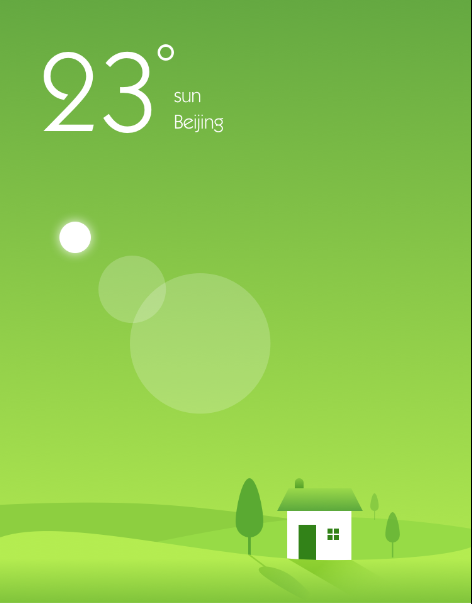
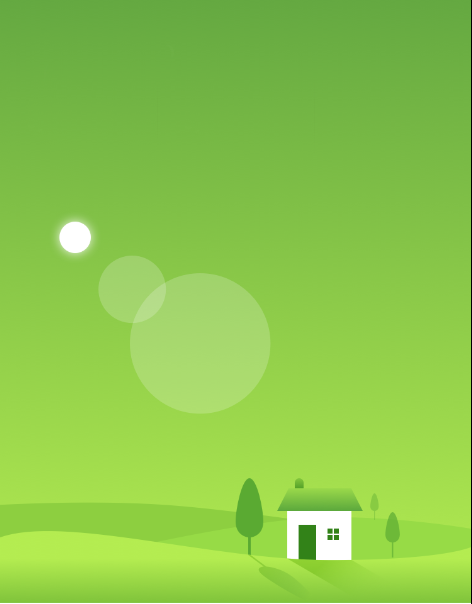
8.13实时

Changed region(s): [[0.089, 0.0596, 0.3856, 0.2384], [0.3559, 0.149, 0.4746, 0.2384], [0.2076, 0.1788, 0.2966, 0.2384]]

diff --git a/pro/untitled.py b/pro/untitled.py
@@ -380,6 +380,30 @@ class Ui_MainWindow(object):
         self.label_24.setPixmap(QtGui.QPixmap("../res/side.png"))
         self.label_24.setScaledContents(True)
         self.label_24.setObjectName("label_24")
+        self.temp = QtWidgets.QLabel(self.frame_12)
+        self.temp.setGeometry(QtCore.QRect(0, 10, 111, 171))
+        self.temp.setStyleSheet("background-color:transparent;\n"
+"font-size:80px;\n"
+"color:white;\n"
+"")
+        self.temp.setTextFormat(QtCore.Qt.PlainText)
+        self.temp.setScaledContents(True)
+        self.temp.setObjectName("temp")
+        self.wind = QtWidgets.QLabel(self.frame_12)
+        self.wind.setGeometry(QtCore.QRect(0, 130, 111, 21))
+        self.wind.setStyleSheet("background-color:transparent;\n"
+"font-size:20px;\n"
+"color:white;\n"
+"font-family:微软雅黑;")
+        self.wind.setObjectName("wind")
+        self.local = QtWidgets.QLabel(self.frame_12)
+        self.local.setGeometry(QtCore.QRect(0, 170, 111, 21))
+        self.local.setStyleSheet("background-color:transparent;\n"
+"font-size:20px;\n"
+"color:white;\n"
+"font-family:微软雅黑;\n"
+"border:none")
+        self.local.setObjectName("local")
         self.verticalLayout_2.addWidget(self.frame_12)
         self.horizontalLayout_3.addLayout(self.verticalLayout_2)
         self.horizontalLayout.addWidget(self.frame)
@@ -839,6 +863,9 @@ class Ui_MainWindow(object):
         self.pushButton_2.setText(_translate("MainWindow", "日程安排"))
         self.pushButton_4.setText(_translate("MainWindow", "历史数据"))
         self.pushButton_5.setText(_translate("MainWindow", "更多功能"))
+        self.temp.setText(_translate("MainWindow", "28°"))
+        self.wind.setText(_translate("MainWindow", "←17km/h"))
+        self.local.setText(_translate("MainWindow", "wulumuqi"))
         self.lineEdit.setToolTip(_translate("MainWindow", "<html><head/><body><p><br/></p></body></html>"))
         self.pushButton_10.setText(_translate("MainWindow", "退出"))
         self.pushButton_11.setText(_translate("MainWindow", "删除"))

diff --git a/pro/window1.py b/pro/window1.py
@@ -4,6 +4,8 @@ from PyQt5.QtCore import QTimer, QDateTime
 
 import sys
 import re
+import requests
+import subprocess
 
 from pyqt5_plugins.examplebutton import QtWidgets
 from pyqt5_plugins.examplebuttonplugin import QtGui
@@ -55,6 +57,9 @@ class masterWindow(untitled.Ui_MainWindow, QMainWindow):
         self.timer.timeout.connect(self.showtime)  # 这个通过调用槽函数来刷新时间
         self.timer.start(1000)  # 每隔一秒刷新一次，这里设置为1000ms
         self.timer.timeout.connect(self.showSide)
+        self.timer2 = QTimer()
+        self.timer2.start(600000)
+        self.timer2.timeout.connect(self.showTemp)
         self.lineEdit.setPlaceholderText("添加任务，按回车创建")
         self.lineEdit.returnPressed.connect(self.addAssignment)
 
@@ -89,6 +94,17 @@ class masterWindow(untitled.Ui_MainWindow, QMainWindow):
 
         #编辑头像
         self.pushButton_3.clicked.connect(self.uploadImg)
+        self.showTemp()
+
+    def showTemp(self):
+        result = subprocess.check_output("curl wttr.in/?format=%t+%l+%w", shell=True, encoding="utf-8")
+        l = list(map(str, result.split()))
+        temp = l[0][1:-1]
+        local = l[1][:-1]
+        wind = l[3]
+        self.temp.setText(temp)
+        self.local.setText(local)
+        self.wind.setText(wind)
 
     def uploadImg(self):
         self.imageName, imgType = QFileDialog.getOpenFileName(self, "选择头像", "", "*.jpg;;*.png;;All Files(*)")

diff --git a/pro/test2.py b/pro/test2.py
@@ -1,9 +1,17 @@
-import re
-
-from PyQt5.QtCore import QDateTime
-import datetime
-
-nowdate = datetime.datetime.now().date()
-delta = datetime.timedelta(days=7)
-foredate = nowdate - delta
-print(nowdate - foredate)
+# import requests
+# r = requests.get('http://www.weather.com.cn/data/sk/101020100.html')
+# r.encoding = 'utf-8'
+# print(r.json())
+# print(r.json()['weatherinfo']['city'], r.json()['weatherinfo']['WD'], r.json()['weatherinfo']['temp'])
+import os
+import subprocess
+result = subprocess.check_output("curl wttr.in/?format=%t+%l+%w", shell=True, encoding="utf-8")
+l = list(map(str, result.split()))
+temp = l[0][1:-1]
+print(temp)
+local = l[1][:-1]
+print(local)
+wind = l[3]
+print(wind)
+# temp = os.system("curl wttr.in/Jiaozuo?format=%t+%C")
+# os.system("curl wttr.in")

diff --git a/mysql/MySql.py b/mysql/MySql.py
@@ -9,7 +9,7 @@ class MySql():
         try:
             self.con = pymysql.connect(host='localhost',
                                        user='root',
-                                       password='root')
+                                       password='888718')
 
             self.con.autocommit(1)
             self.cursor = self.con.cursor()
